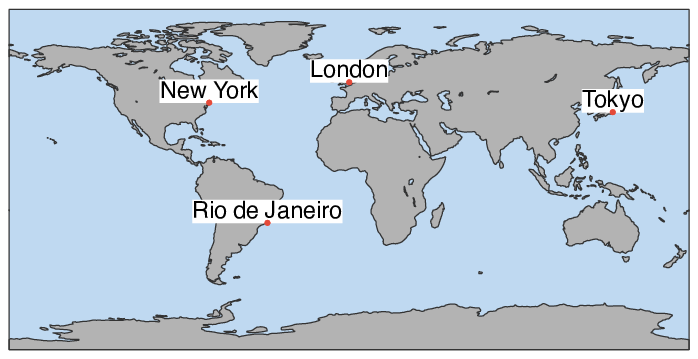
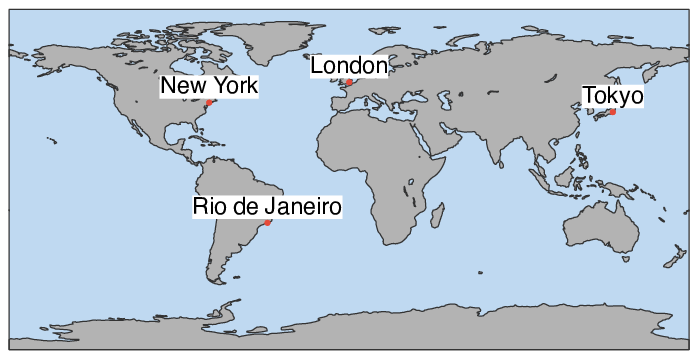
Fix method to plot location names in text_at_geopoints_locations.py

diff --git a/docs/gallery/text_at_geopoints_locations.py b/docs/gallery/text_at_geopoints_locations.py
@@ -22,18 +22,22 @@ else:
     gpt = mv.gallery.load_dataset(filename)
 
 # define text labels
+# - the geopoints have values of 1, 2, 3 and 4
 txt_lst = ["London", "New York", "Rio de Janeiro", "Tokyo"]
 
 # define text plotting
+# the first interval is 1(inclusive)->2(exclusive), etc
 sym_txt = mv.msymb(
     legend="off",
-    symbol_type="text",
-    symbol_colour="black",
-    symbol_text_list=txt_lst,
-    symbol_text_position="top",
-    symbol_text_font_size=1,
-    symbol_text_blanking="on",
-)
+    symbol_type                          = "text",
+    symbol_table_mode                    = "advanced",
+    symbol_advanced_table_selection_type = "list",
+    symbol_advanced_table_level_list     = [1, 2, 3, 4, 5],
+    symbol_advanced_table_text_list      = txt_lst,
+    symbol_advanced_table_text_font_size = 1,
+    symbol_advanced_table_text_display_type = "top",
+    symbol_text_blanking                 = "on", #  requires Magics >=4.8.1
+    )
 
 # define location plotting
 sym_loc = mv.msymb(
